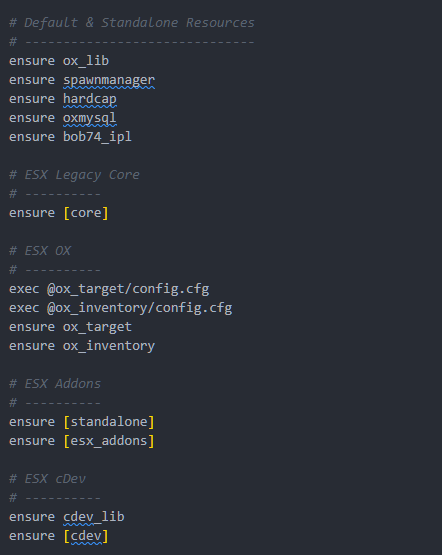
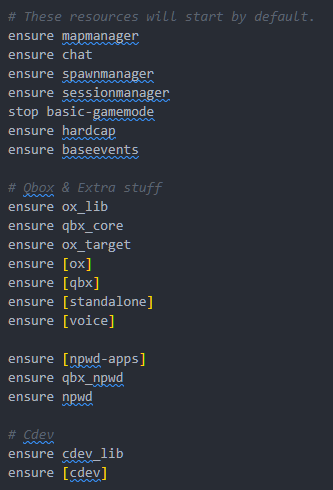
GITBOOK-294: change request with no subject merged in GitBook

diff --git a/fivem/cdev-games/installation-guide-qbox-framework.md b/fivem/cdev-games/installation-guide-qbox-framework.md
@@ -2,7 +2,7 @@
 hidden: true
 ---
 
-# Installation Guide ESX Framework
+# Installation Guide QBox Framework
 
 {% stepper %}
 {% step %}
@@ -35,7 +35,7 @@ Make sure you have all of the following resources installed:
 
 **Below is an example screenshot showing the correct folder structure:**
 
-<div align="left"><figure><img src="../../.gitbook/assets/image (3).png" alt=""><figcaption></figcaption></figure></div>
+<div align="left"><figure><img src="../../.gitbook/assets/image.png" alt=""><figcaption></figcaption></figure></div>
 {% endstep %}
 
 {% step %}
@@ -47,7 +47,7 @@ It is essential to follow the correct startup order to ensure proper functionali
 
 **Below is an example screenshot showing the recommended startup order:**
 
-<div align="left"><figure><img src="../../.gitbook/assets/image (1) (1).png" alt=""><figcaption></figcaption></figure></div>
+<div align="left"><figure><img src="../../.gitbook/assets/image (1).png" alt=""><figcaption></figcaption></figure></div>
 {% endstep %}
 
 {% step %}
@@ -56,9 +56,9 @@ It is essential to follow the correct startup order to ensure proper functionali
 For the game system and the connection between your <mark style="color:yellow;">framework</mark> and the resources to work correctly, you need to configure the `cdev_lib` resource properly according to your <mark style="color:yellow;">framework</mark>. For more details, click the link below to follow the instructions.
 
 {% tabs %}
-{% tab title="ESX" %}
-{% content-ref url="../cdev-library/esx-configuration.md" %}
-[esx-configuration.md](../cdev-library/esx-configuration.md)
+{% tab title="QBox" %}
+{% content-ref url="../cdev-library/qbcore-qbox-configuration.md" %}
+[qbcore-qbox-configuration.md](../cdev-library/qbcore-qbox-configuration.md)
 {% endcontent-ref %}
 {% endtab %}
 {% endtabs %}
@@ -69,7 +69,7 @@ For the game system and the connection between your <mark style="color:yellow;">
 
 🚩 <mark style="color:red;">To work correctly,</mark> <mark style="color:yellow;">**cdev\_games**</mark> <mark style="color:red;">requires the proper configuration of the inventory and framework in the</mark> `config.lua` <mark style="color:red;">file located in the</mark> `cdev_games` <mark style="color:red;">folder.</mark>\ <mark style="color:red;">Below is how the file should be configured to ensure everything functions properly.</mark>
 
-<figure><img src="../../.gitbook/assets/image (2) (1).png" alt=""><figcaption></figcaption></figure>
+<div align="left"><figure><img src="../../.gitbook/assets/image (2).png" alt=""><figcaption></figcaption></figure></div>
 
 {% hint style="danger" %}
 **If you're using a different&#x20;**<mark style="color:yellow;">**inventory**</mark>**, change the settings according to your custom inventory.**
@@ -80,7 +80,7 @@ For the game system and the connection between your <mark style="color:yellow;">
 ### Configuring the items and images in ox\_inventory
 
 {% tabs %}
-{% tab title="Ox Iventory" %}
+{% tab title="OX Inventory" %}
 {% content-ref url="ox-inventory.md" %}
 [ox-inventory.md](ox-inventory.md)
 {% endcontent-ref %}

diff --git a/fivem/soccer/rcore-addon.md b/fivem/soccer/rcore-addon.md
@@ -22,6 +22,6 @@ You can adjust the achievement titles and such here.
 
 ## Previews
 
-<div><figure><img src="../../.gitbook/assets/image (1) (1) (1).png" alt=""><figcaption></figcaption></figure> <figure><img src="../../.gitbook/assets/image2 (1).png" alt=""><figcaption></figcaption></figure></div>
+<div><figure><img src="../../.gitbook/assets/image (1) (1) (1) (1).png" alt=""><figcaption></figcaption></figure> <figure><img src="../../.gitbook/assets/image2 (1).png" alt=""><figcaption></figcaption></figure></div>
 
 <div><figure><img src="../../.gitbook/assets/image3 (1).png" alt=""><figcaption></figcaption></figure> <figure><img src="../../.gitbook/assets/image4 (1).png" alt=""><figcaption></figcaption></figure> <figure><img src="../../.gitbook/assets/image5 (1).png" alt=""><figcaption></figcaption></figure></div>

diff --git a/fivem/pet-system/faq.md b/fivem/pet-system/faq.md
@@ -642,7 +642,7 @@ Check to make sure you have an active CFX Element Club subscription: [HERE](http
 
 ## \[cdev\_pets] (ERROR) Network control timeout for spawning pet, Please Try Again!
 
-<div align="center"><figure><img src="../../.gitbook/assets/image (3) (1).png" alt=""><figcaption></figcaption></figure></div>
+<div align="center"><figure><img src="../../.gitbook/assets/image (3) (1) (1).png" alt=""><figcaption></figcaption></figure></div>
 
 {% hint style="danger" %}
 If you have an anti-cheat, it may be blocking the pet events, please check with your AC provider on how you can resolve this

diff --git a/fivem/pet-system/troubleshooting.md b/fivem/pet-system/troubleshooting.md
@@ -13,7 +13,7 @@ Check to make sure you have an active CFX Element Club subscription: [HERE](http
 
 ### \[cdev\_pets] (ERROR) Network control timeout for spawning pet, Please Try Again!
 
-<div align="center"><figure><img src="../../.gitbook/assets/image (3) (1).png" alt=""><figcaption></figcaption></figure></div>
+<div align="center"><figure><img src="../../.gitbook/assets/image (3) (1) (1).png" alt=""><figcaption></figcaption></figure></div>
 
 {% hint style="danger" %}
 If you have an anti-cheat, it may be blocking the pet events, please check with your AC provider on how you can resolve this

diff --git a/fivem/cdev-games/README.md b/fivem/cdev-games/README.md
@@ -22,6 +22,10 @@ This resource provides quick and easy entertainment including two games
 [installation-guide-qbcore-framework.md](installation-guide-qbcore-framework.md)
 {% endcontent-ref %}
 
+{% content-ref url="installation-guide-qbox-framework.md" %}
+[installation-guide-qbox-framework.md](installation-guide-qbox-framework.md)
+{% endcontent-ref %}
+
 {% content-ref url="installation-guide-esx-framework.md" %}
 [installation-guide-esx-framework.md](installation-guide-esx-framework.md)
 {% endcontent-ref %}

diff --git a/SUMMARY.md b/SUMMARY.md
@@ -64,6 +64,7 @@
   * [Exports](fivem/cdev-games/exports.md)
   * [Installation Guide ESX Framework](fivem/cdev-games/installation-guide-esx-framework.md)
   * [Installation Guide QBCore Framework](fivem/cdev-games/installation-guide-qbcore-framework.md)
+  * [Installation Guide QBox Framework](fivem/cdev-games/installation-guide-qbox-framework.md)
 * [💰 Banking](fivem/banking/README.md)
   * [Client Exports](fivem/banking/client-exports/README.md)
     * [UI](fivem/banking/client-exports/ui.md)

diff --git a/fivem/cdev-games/installation-guide-qbcore-framework.md b/fivem/cdev-games/installation-guide-qbcore-framework.md
@@ -35,7 +35,7 @@ Make sure you have all of the following resources installed:
 
 **Below is an example screenshot showing the correct folder structure:**
 
-<div align="left"><figure><img src="../../.gitbook/assets/image (3).png" alt=""><figcaption></figcaption></figure></div>
+<div align="left"><figure><img src="../../.gitbook/assets/image (3) (1).png" alt=""><figcaption></figcaption></figure></div>
 {% endstep %}
 
 {% step %}

diff --git a/fivem/pet-system/pet-shop-configuration.md b/fivem/pet-system/pet-shop-configuration.md
@@ -17,7 +17,7 @@ TriggerEvent("cdev_pets:loadShop")
 
 
 
-<figure><img src="../../.gitbook/assets/image (1) (1) (1) (1).png" alt=""><figcaption></figcaption></figure>
+<figure><img src="../../.gitbook/assets/image (1) (1) (1) (1) (1).png" alt=""><figcaption></figcaption></figure>
 
 {% code title="public/config/config.lua" lineNumbers="true" %}
 ```lua
